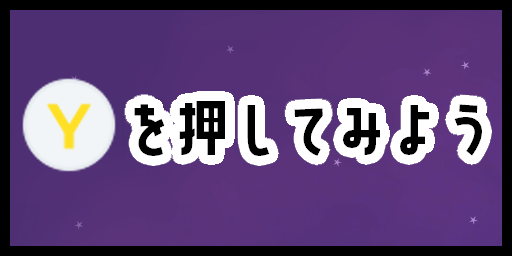
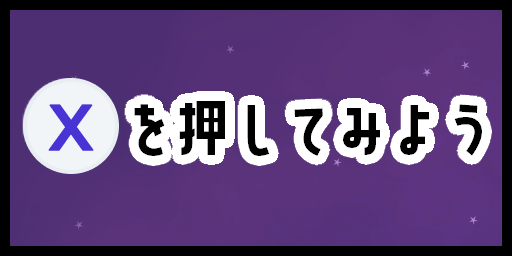
UIをXボタンでスピンモードのなるよう調整 最初のステージにチュートリアルを追加

diff --git a/Header/Object/InGameUIManager/TutorialUI.cpp b/Header/Object/InGameUIManager/TutorialUI.cpp
@@ -1,4 +1,6 @@
 #include "TutorialUI.h"
+#include "../../../Engine/DirectBase/Input/Input.h"
+#include "../TutorialManager.h"
 
 void TutorialUI::Init(const std::string& id)
 {
@@ -7,32 +9,23 @@ void TutorialUI::Init(const std::string& id)
 	// スプライトのインスタンスを生成
 	tutorialUI_.reset(Sprite::Create(TextureManager::Load("UI/TD2_3week_2/InGame/Tutorial/Tutorial_1.png")));
 	tutorialKeyUI_.reset(Sprite::Create(TextureManager::Load("UI/TD2_3week_2/InGame/Tutorial/TutorialKey_1.png")));
+	
+	// 表示
+	behaviorRequest_ = kAppear;
 }
 
 void TutorialUI::Update(float deltaTime)
 {
-	switch (progress_)
-	{
-	case TutorialUI::kMove:
-		tutorialUI_->SetTextureHaundle(TextureManager::Load("UI/TD2_3week_2/InGame/Tutorial/Tutorial_1.png"));
-		tutorialKeyUI_->SetTextureHaundle(TextureManager::Load("UI/TD2_3week_2/InGame/Tutorial/TutorialKey_1.png"));
-		break;
-	case TutorialUI::kEnableSpin:
-		tutorialUI_->SetTextureHaundle(TextureManager::Load("UI/TD2_3week_2/InGame/Tutorial/Tutorial_2.png"));
-		tutorialKeyUI_->SetTextureHaundle(TextureManager::Load("UI/TD2_3week_2/InGame/Tutorial/TutorialKey_2.png"));
-		break;
-	case TutorialUI::kSpin:
-		tutorialUI_->SetTextureHaundle(TextureManager::Load("UI/TD2_3week_2/InGame/Tutorial/Tutorial_3.png"));
-		tutorialKeyUI_->SetTextureHaundle(TextureManager::Load("UI/TD2_3week_2/InGame/Tutorial/TutorialKey_3.png"));
-		break;
-	case TutorialUI::kDisableSpin:
-		tutorialUI_->SetTextureHaundle(TextureManager::Load("UI/TD2_3week_2/InGame/Tutorial/Tutorial_4.png"));
-		tutorialKeyUI_->SetTextureHaundle(TextureManager::Load("UI/TD2_3week_2/InGame/Tutorial/TutorialKey_4.png"));
-		break;
-	case TutorialUI::kGoal:
-		tutorialUI_->SetTextureHaundle(TextureManager::Load("UI/TD2_3week_2/InGame/Tutorial/Tutorial_5.png"));
-		tutorialKeyUI_->SetTextureHaundle(TextureManager::Load("UI/TD2_3week_2/InGame/Tutorial/TutorialKey_5.png"));
-		break;
+	if (progress_ != prevProgress_) {
+		if (!isChanging_) {
+			behaviorRequest_ = kDisappear;
+		}
+	}
+	else {
+		// 前フレームのやつを取得
+		prevProgress_ = progress_;
+		// チュートリアル進捗を取得
+		progress_ = TutorialManager::GetInstance()->GetProgress();
 	}
 
 	// ふるまいを変更するリクエストがあればTrue
@@ -85,7 +78,7 @@ void TutorialUI::Update(float deltaTime)
 
 void TutorialUI::Draw()
 {
-	if (isController_) {
+	if (Input::GetInstance()->GetInputType() == Input::InputType::kPad) {
 		// 背景の描画
 		tutorialUI_->SetPosition(position_);
 		tutorialUI_->SetScale(scale_);
@@ -128,15 +121,31 @@ void TutorialUI::DisplayImGui()
 	}
 }
 
-void TutorialUI::DisplayNextTutorial(int progress)
+void TutorialUI::ChangeTexture()
 {
-	// 次の進捗と一致しない場合はそれを代入する
-	if (nextProgress_ != progress_) {
-		progress_ = nextProgress_;
+	switch (progress_)
+	{
+	case TutorialUI::kMove:
+		tutorialUI_->SetTextureHaundle(TextureManager::Load("UI/TD2_3week_2/InGame/Tutorial/Tutorial_1.png"));
+		tutorialKeyUI_->SetTextureHaundle(TextureManager::Load("UI/TD2_3week_2/InGame/Tutorial/TutorialKey_1.png"));
+		break;
+	case TutorialUI::kEnableSpin:
+		tutorialUI_->SetTextureHaundle(TextureManager::Load("UI/TD2_3week_2/InGame/Tutorial/Tutorial_2.png"));
+		tutorialKeyUI_->SetTextureHaundle(TextureManager::Load("UI/TD2_3week_2/InGame/Tutorial/TutorialKey_2.png"));
+		break;
+	case TutorialUI::kSpin:
+		tutorialUI_->SetTextureHaundle(TextureManager::Load("UI/TD2_3week_2/InGame/Tutorial/Tutorial_3.png"));
+		tutorialKeyUI_->SetTextureHaundle(TextureManager::Load("UI/TD2_3week_2/InGame/Tutorial/TutorialKey_3.png"));
+		break;
+	case TutorialUI::kDisableSpin:
+		tutorialUI_->SetTextureHaundle(TextureManager::Load("UI/TD2_3week_2/InGame/Tutorial/Tutorial_4.png"));
+		tutorialKeyUI_->SetTextureHaundle(TextureManager::Load("UI/TD2_3week_2/InGame/Tutorial/TutorialKey_4.png"));
+		break;
+	case TutorialUI::kGoal:
+		tutorialUI_->SetTextureHaundle(TextureManager::Load("UI/TD2_3week_2/InGame/Tutorial/Tutorial_5.png"));
+		tutorialKeyUI_->SetTextureHaundle(TextureManager::Load("UI/TD2_3week_2/InGame/Tutorial/TutorialKey_5.png"));
+		break;
 	}
-	nextProgress_ = progress;
-	behaviorRequest_ = kDisappear;
-	changeTutorial_ = true;
 }
 
 void TutorialUI::StayInit()
@@ -206,13 +215,14 @@ void TutorialUI::DisappearUpdate()
 	else {
 		isChanging_ = false;
 		// 次の行動リクエストに待機アニメーションを設定
-		behaviorRequest_ = kStay;
+		behaviorRequest_ = kAppear;
 		// 非表示中
 		isDisplay_ = false;
 
-		// 次の進捗と一致しない場合はそれを代入する
-		if (nextProgress_ != progress_) {
-			progress_ = nextProgress_;
-		}
+		// テクスチャ変更
+		ChangeTexture();
+
+		// 前フレームのやつを取得
+		prevProgress_ = progress_;
 	}
 }

diff --git a/Header/Object/InGameUIManager/InGameUIManager.cpp b/Header/Object/InGameUIManager/InGameUIManager.cpp
@@ -1,6 +1,7 @@
 #include "InGameUIManager.h"
 #include "../../../Engine/DirectBase/Input/Input.h"
 #include "../../../Header/Object/StageSelectManager/StageSelectManager.h"
+#include "../LevelElementManager.h"
 
 void InGameUIManager::Init(int maxStarCount)
 {
@@ -29,12 +30,14 @@ void InGameUIManager::Init(int maxStarCount)
 
 	// 操作方法UIのリセット
 	controllUI_.sprite_.reset(Sprite::Create(TextureManager::Load("UI/TD2_3week_2/InGame/Controll/Controller_NoSpin.png")));
-	controllUI_.position_ = { 0.0f, 425.0f };
-	controllUI_.scale_ = { 512.0f, 300.0f };
+	controllUI_.position_ = { 0.0f, 0.0f };
+	controllUI_.scale_ = { 512.0f, 720.0f };
+	controllUI_.anchorPoint_ = { 0.0f, 0.0f };
 	// スピン時の操作方法UIのリセット
 	spinControllUI_.sprite_.reset(Sprite::Create(TextureManager::Load("UI/TD2_3week_2/InGame/Controll/Controller_Spin.png")));
-	spinControllUI_.position_ = { 0.0f, 425.0f };
-	spinControllUI_.scale_ = { 512.0f, 220.0f };
+	spinControllUI_.position_ = { 0.0f, 0.0f };
+	spinControllUI_.scale_ = { 512.0f, 720.0f };
+	spinControllUI_.anchorPoint_ = { 0.0f, 0.0f };
 }
 
 void InGameUIManager::Update(float deltaTime)
@@ -77,6 +80,22 @@ void InGameUIManager::Update(float deltaTime)
 
 	controllUI_.sprite_->SetColor({ 1.0f, 1.0f, 1.0f, uiAlpha_ });
 
+	Entity* goal = nullptr;
+	if (LevelElementManager::GetInstance()->GetGoalList().size()) {
+		goal = LevelElementManager::GetInstance()->GetGoalList().front();
+
+		// ゴール状態である場合
+		if (goal->GetComponent<GoalAnimComp>()->GetIsPlay()) {
+			if (uiAlpha_ > 0.0f) {
+				uiAlpha_ -= 0.025f;
+			}
+			else {
+				uiAlpha_ = 0.0f;
+			}
+			
+		}
+	}
+
 #ifdef _DEBUG
 	ImGui::Begin("InGameUI");
 	if (ImGui::TreeNode("StarUI")) {
@@ -93,7 +112,7 @@ void InGameUIManager::Update(float deltaTime)
 		}
 		ImGui::TreePop();
 	}
-	
+
 	controllUI_.DisplayImGui("ControllUI");
 	spinControllUI_.DisplayImGui("spinControllUI");
 
@@ -157,4 +176,9 @@ void InGameUIManager::AddStar(int p0m)
 			}
 		}
 	}
+}
+
+void InGameUIManager::ShakeStar()
+{
+	blurTrigger_ = true;
 }

diff --git a/Header/Object/InGameUIManager/InGameUIManager.h b/Header/Object/InGameUIManager/InGameUIManager.h
@@ -71,6 +71,11 @@ public: // アクセッサ等
 	/// <param name="p0m">プラスかマイナスか</param>
 	void AddStar(int p0m);
 
+	/// <summary>
+	/// 星のスタックがない場合、その星を振動させる関数
+	/// </summary>
+	void ShakeStar();
+
 public: // パブリックなメンバ変数
 
 	// ゲーム画面全体の透明度
@@ -105,6 +110,9 @@ private: // メンバ変数
 	std::unique_ptr<TutorialUI> tutorialUI_;
 	// チュートリアル進捗
 	int tutorialProgress_ = TutorialUI::TutorialProgress::kMove;
+
+	// 星UIの振動
+	bool blurTrigger_ = false;
 
 	// 星UIの量を示すUIを加算するか減算するか
 	int imGuiAddType_ = 0;

diff --git a/Header/Object/InGameUIManager/TutorialUI.h b/Header/Object/InGameUIManager/TutorialUI.h
@@ -49,6 +49,9 @@ public: // メンバ関数
 	
 public: // アクセッサ等
 
+	
+	void ChangeTexture();
+
 	/// <summary>
 	/// 引数で指定したチュートリアル画像を表示する関数
 	/// </summary>
@@ -155,8 +158,8 @@ private: // メンバ変数
 	std::unique_ptr<Sprite>tutorialKeyUI_; // キーボード用
 
 	// チュートリアル進捗
-	int progress_ = kMove;			 // 現在の
-	int nextProgress_ = kMove; // 次の
+	int progress_ = kMove; // 現在の
+	int prevProgress_ = 999; // 前の
 
 	// コントローラーか
 	bool isController_ = false;
